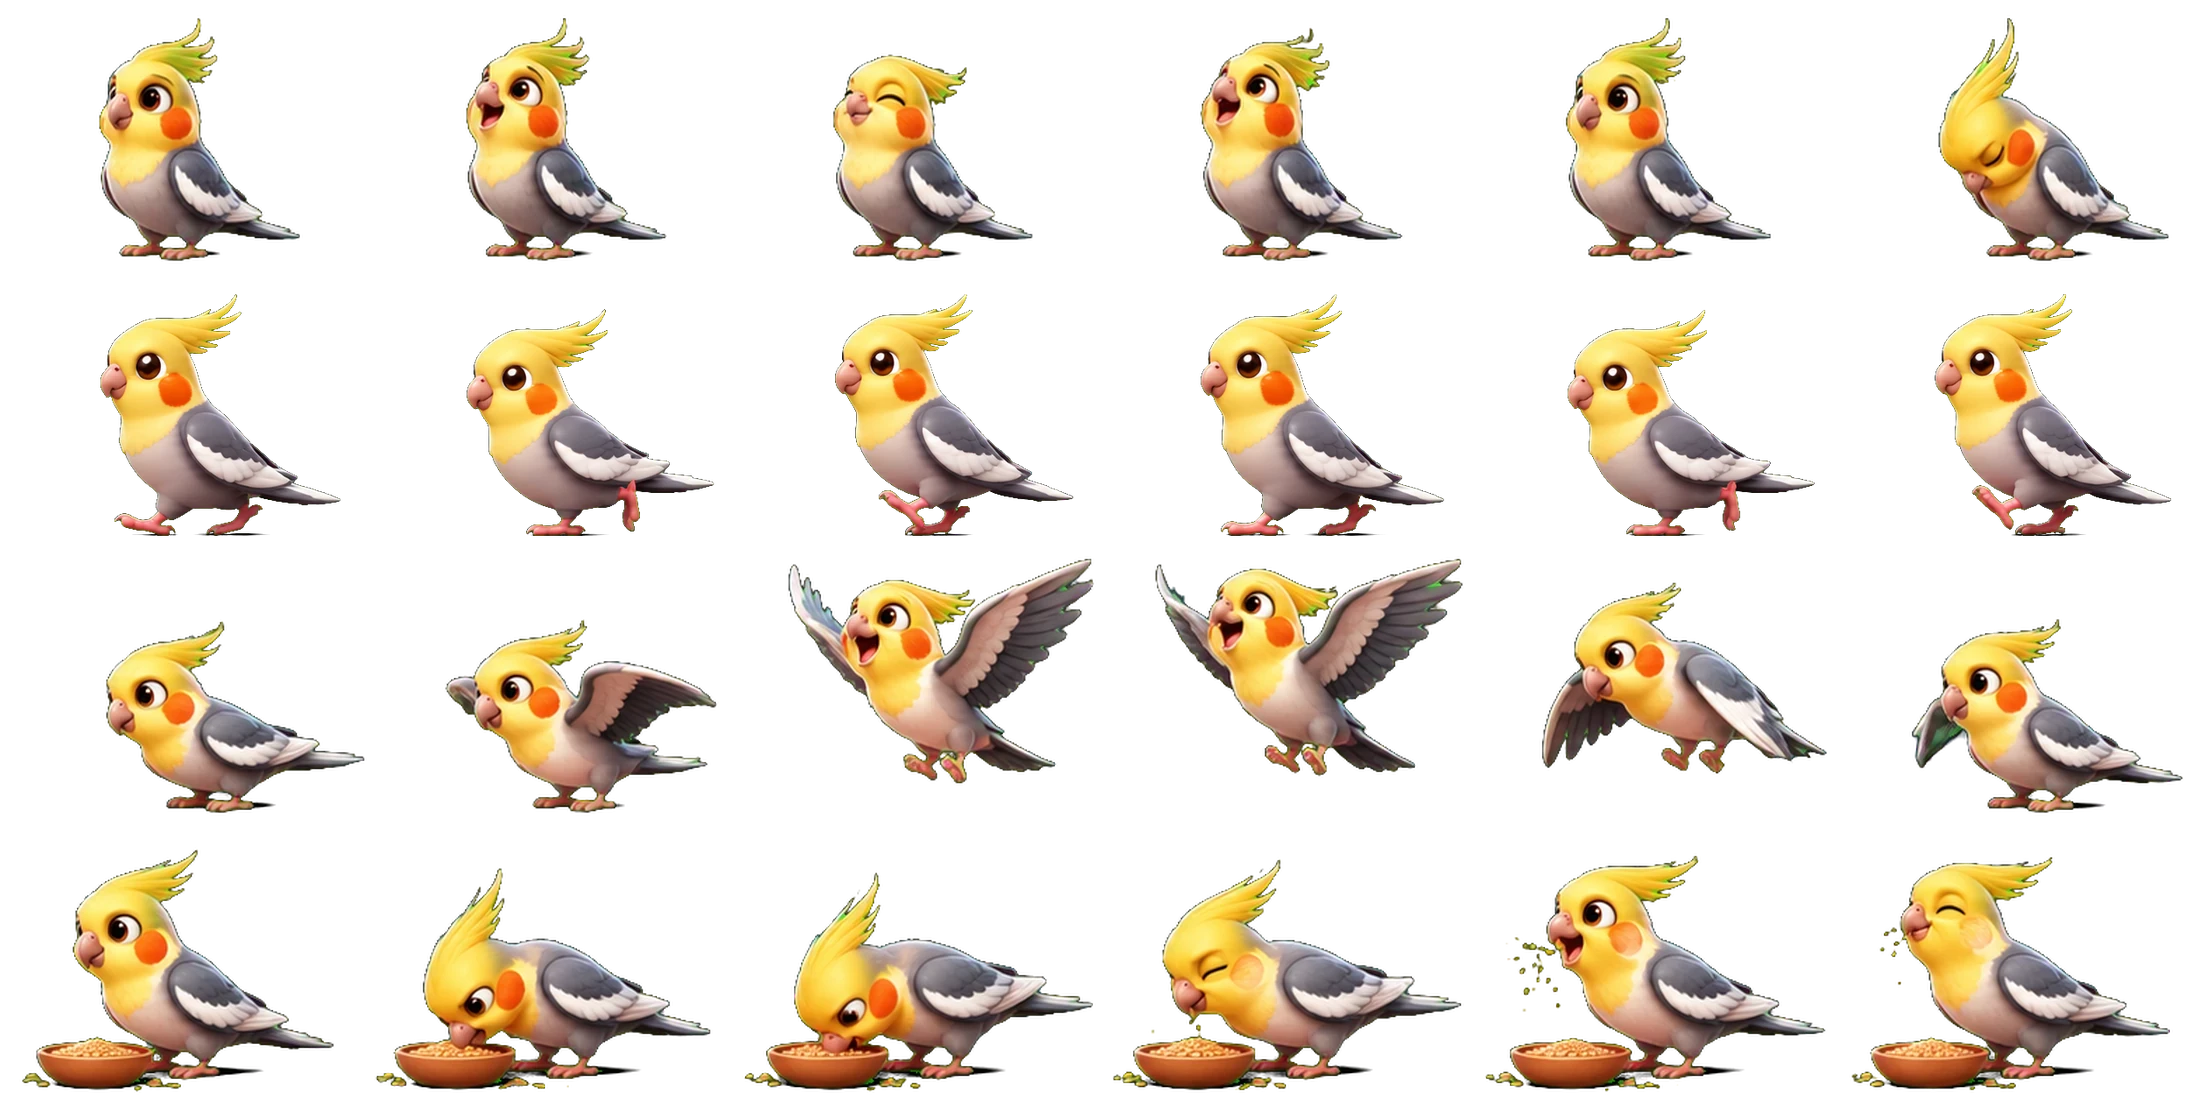
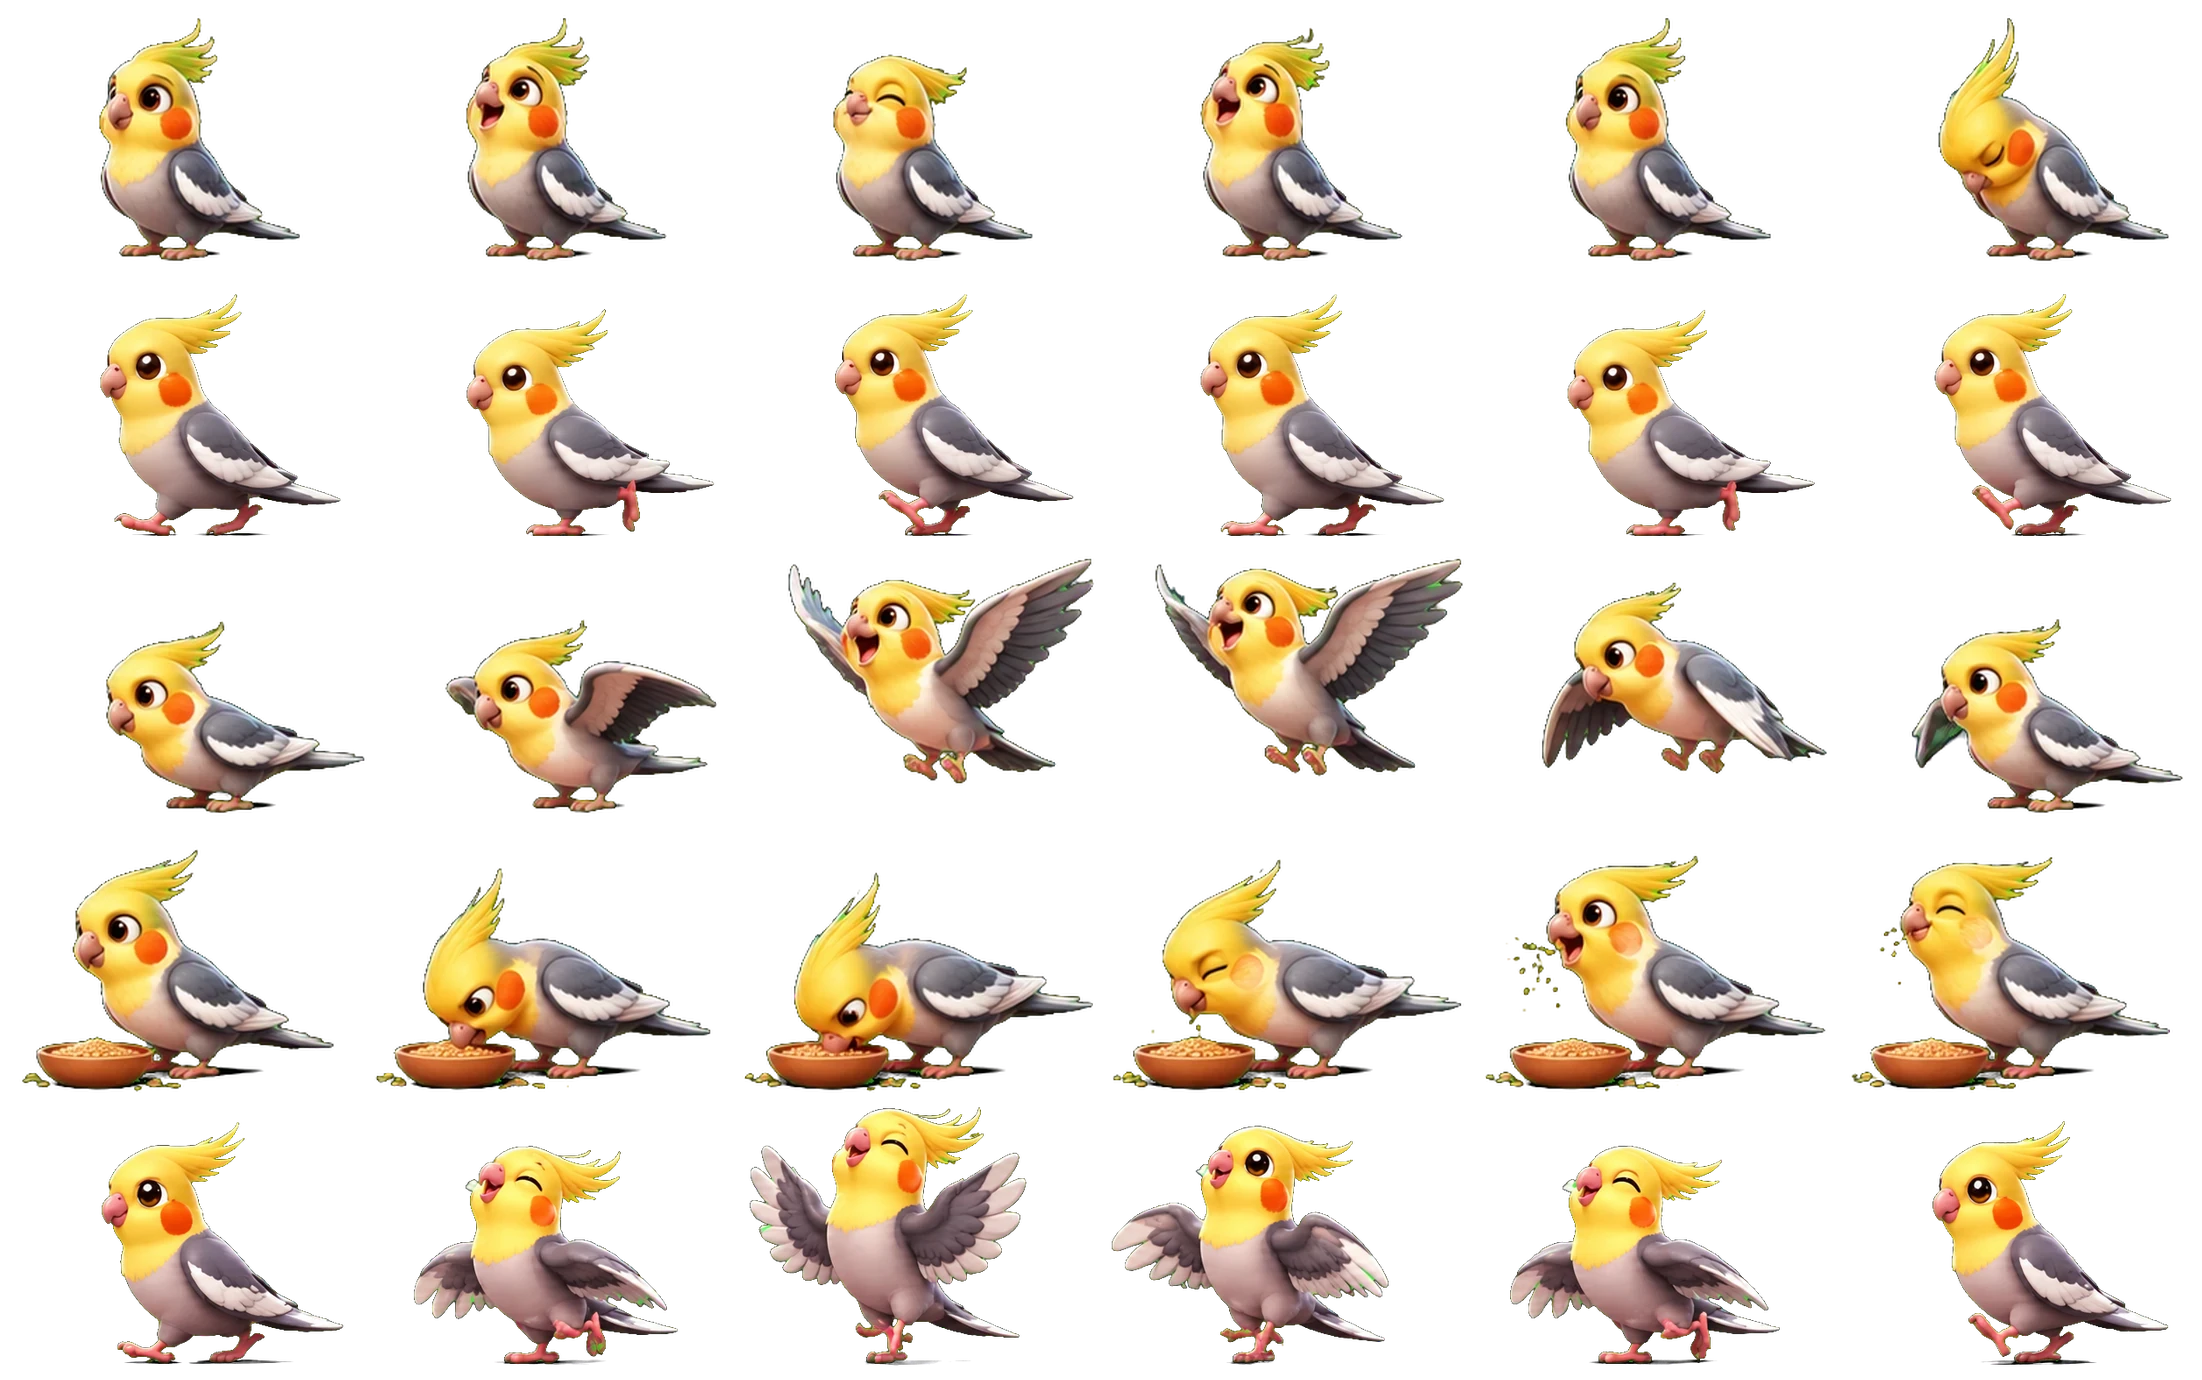
תוכי: לחיצה אחת גורמת לו לרקוד (שורת ריקוד חדשה בגיליונות)
Claude-Session: https://claude.ai/code/session_017uWVXJvGJwQzyMEhW6iefH

diff --git a/js/parrot.js b/js/parrot.js
@@ -2,7 +2,7 @@
 'use strict';
 /* התוכי של הצ'אט: עומד על הקצה העליון של שדה הכתיבה.
    מנקה נוצות, מצייץ, מסתובב לאורך הקצה ומנפנף בכנפיים.
-   לחיצה = ציוץ וכנפיים. לחיצה ארוכה = קערת גרגירים והוא אוכל. החלקה עליו = הוא עף ברחבי המסך ונוחת חזרה. שליחת הודעה = הוא מנפנף.
+   לחיצה = ריקוד. לחיצה ארוכה = קערת גרגירים והוא אוכל. החלקה עליו = הוא עף ברחבי המסך ונוחת חזרה. שליחת הודעה = הוא מנפנף.
    לא חוסם את שדה הכתיבה והכפתורים (הוא עומד מעליהם). */
 if(matchMedia('(prefers-reduced-motion: reduce)').matches)return;
 var form=document.getElementById('form'); if(!form)return;
@@ -11,7 +11,7 @@ var CW=100.65*SC, CH=75.9*SC;   /* תא אחד בגיליון בגודל CSS (ב
 function active(){ if(!HASH)return true; var h=location.hash.slice(1); try{h=decodeURIComponent(h)}catch(_){} return h===HASH; }
 var st=document.createElement('style');
 st.textContent='#pk{position:absolute;left:0;bottom:100%;margin-bottom:'+(-4*SC)+'px;width:'+CW+'px;height:'+CH+'px;pointer-events:none;direction:ltr;z-index:2;will-change:transform;-webkit-user-select:none;user-select:none;-webkit-touch-callout:none}'
-+'#pk .sp{position:absolute;inset:0;background:url('+SHEET+') no-repeat;background-size:'+(CW*6)+'px '+(CH*4)+'px;background-position:0 0}'
++'#pk .sp{position:absolute;inset:0;background:url('+SHEET+') no-repeat;background-size:'+(CW*6)+'px '+(CH*5)+'px;background-position:0 0}'
 +'#pk.r .sp{transform:scaleX(-1)}'
 +'#pk.fly{position:fixed;left:0;top:0;bottom:auto;margin:0;z-index:40}#pk.fly .hit{pointer-events:none}'
 +'#pk .hit{position:absolute;left:20%;right:14%;top:16%;bottom:0;pointer-events:auto;touch-action:none;cursor:pointer;-webkit-tap-highlight-color:transparent}'
@@ -42,6 +42,7 @@ function chirp(){ busy=true; play([[0,1,230],[0,3,230],[0,1,230],[0,3,230],[0,0,
 function wink(){ busy=true; play([[0,2,1000]],end); }
 function preen(){ busy=true; play([[0,5,1500]],end); }
 function flap(){ busy=true; play([[2,0,120],[2,1,120],[2,2,120],[2,3,120],[2,2,120],[2,3,120],[2,2,120],[2,3,120],[2,4,130],[2,5,160]],end); }
+function dance(){ busy=true; var s=[],o=[0,1,2,3,4,5,4,3,2,1]; for(var k=0;k<2;k++)o.forEach(function(c){ s.push([4,c,150]); }); s.push([4,0,150]); play(s,end); }
 function eat(){
   if(eating)return; stopWalk(); busy=true; eating=true;
   var s=[[3,0,700]]; for(var k=0;k<4;k++){ s.push([3,1,330]); s.push([3,2,330]); }
@@ -128,7 +129,7 @@ hit.addEventListener('pointermove',function(e){
 hit.addEventListener('pointerup',function(e){
   e.stopPropagation(); clearTimeout(lp); down=false;
   if(lpDone||swiped||eating||flying)return;
-  stopWalk(); flap(); if(navigator.vibrate)try{navigator.vibrate(15)}catch(_){}
+  stopWalk(); dance(); if(navigator.vibrate)try{navigator.vibrate(15)}catch(_){}
 });
 hit.addEventListener('pointercancel',function(){ clearTimeout(lp); lpDone=true; down=false; });
 hit.addEventListener('click',function(e){ e.preventDefault(); e.stopPropagation(); });

diff --git a/sw.js b/sw.js
@@ -1,5 +1,5 @@
 // Service worker מינימלי: שומר את קבצי המעטפת לפתיחה מהירה. נתונים תמיד מהרשת.
-const CACHE = 'habayit-p225';
+const CACHE = 'habayit-p226';
 const SHELL = ['./js/companion.js','./js/dog.js','./js/giraffe.js','./js/parrot.js','./icons/parrot/parrot.webp','./icons/giraffe/walk.webp','./js/bird.js','./js/spider.js','./','./index.html','./login.html','./signup.html','./google-setup.html','./privacy.html','./terms.html','./js/family.js','./css/style.css','./js/splash.js','./splash.jpg','./splash-en.jpg','./splash-family.jpg','./splash.jpg','./js/config.js','./js/supabase.js','./js/common.js','./js/icons.js','./js/generate.js','./js/points.js','./tasks.html','./task.html','./admin.html','./report.html','./history.html','./chat.html','./ai.html','./lessons.html','./chef-splash.jpg','./teacher-splash.jpg','./calendar.html','./requests.html','./meds.html','./info.html','./feedback.html','./guide.html','./status.html','./bonus.html','./js/gamesplash.js','./js/bonuspopup.js','./bonus-splash.jpg','./bonus-splash-en.jpg','./fridge.html','./food.html','./fridge-food.jpg','./shop.html','./outing.html','./js/outings.js', './important.html', './js/important.js', './js/push.js','./js/bonus.js','./game.html','./games.html','./checkers.html','./battleship.html','./poker.html','./backgammon.html','./blackjack.html','./stratego.html','./tetris.html','./aquarium.html','./conflicts.html','./tetris-bg.jpg','./tetris-splash.jpg','./js/strategopage.js','./stratego-bg.jpg','./stratego-water.jpg','./stratego-splash.jpg','./js/bjpage.js','./js/bgpage.js','./js/pokerpage.js','./js/bspage.js','./js/checkerspage.js','./js/guest.js','./js/checkers-rules.js','./js/gamepage.js','./js/game.js','./game-bg.jpg','./js/events.js','./js/weather.js','./js/countries.js','./icons/weather/sun.webp','./icons/weather/partly.webp','./icons/weather/cloud.webp','./icons/weather/rain.webp','./icons/weather/storm.webp','./icons/weather/fog.webp','./icons/weather/snow.webp','./icons/weather/bird1.webp','./icons/weather/bird2.webp','./icons/weather/sky-sun.webp','./icons/weather/sky-partly.webp','./icons/weather/sky-cloud.webp','./icons/weather/sky-rain.webp','./icons/weather/sky-storm.webp','./icons/weather/sky-fog.webp','./icons/weather/sky-snow.webp','./icons/weather/sky-night.webp','./icons/weather/moon.webp','./icons/weather/moon-cloud.webp','./icons/weather/sea-bg.webp','./icons/weather/sea-waves.webp','./icons/weather/surf1.webp','./icons/weather/surf2.webp','./icons/weather/sit.webp','./icons/weather/sky-dawn.webp','./icons/weather/sky-dusk.webp','./icons/weather/sea-night.webp','./icons/weather/sea-dusk.webp','./js/i18n.js','./manifest.webmanifest','./logo.png','./login-bg.jpg','./logo-text.png'];
 // כל קובץ נשמר בנפרד וללא כפילויות: קובץ חסר או כפול לא מפיל את ההתקנה של ה-Service Worker
 self.addEventListener('install', e => { e.waitUntil(caches.open(CACHE).then(c => Promise.allSettled([...new Set(SHELL)].map(u => c.add(u))))); self.skipWaiting(); });
